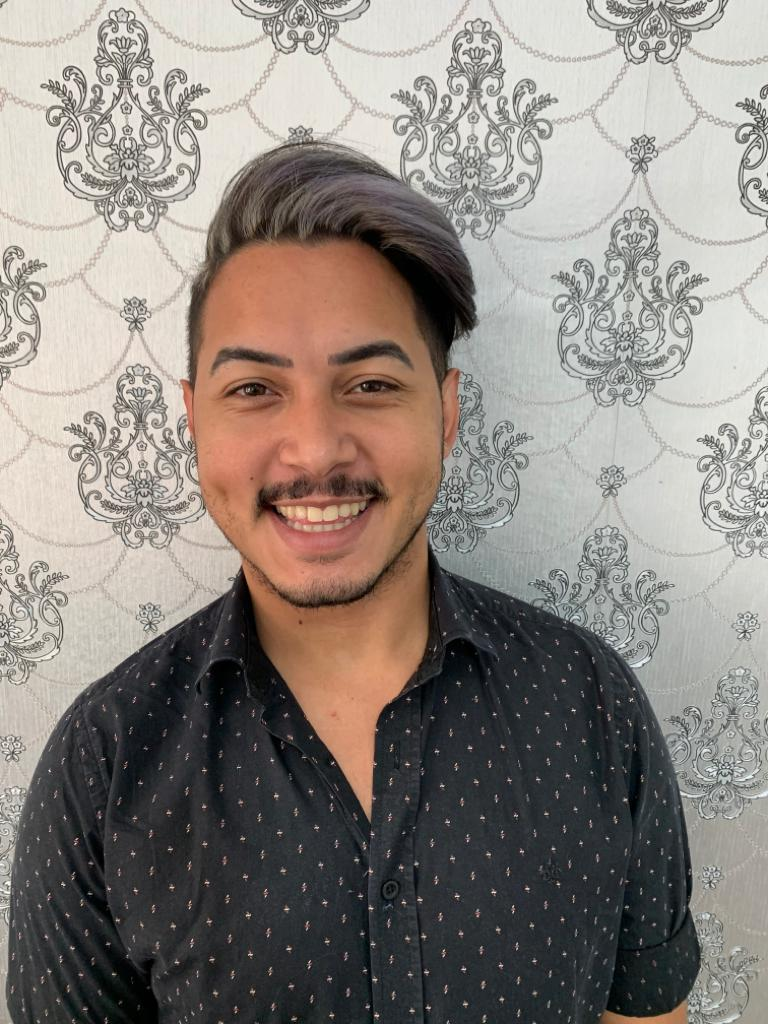
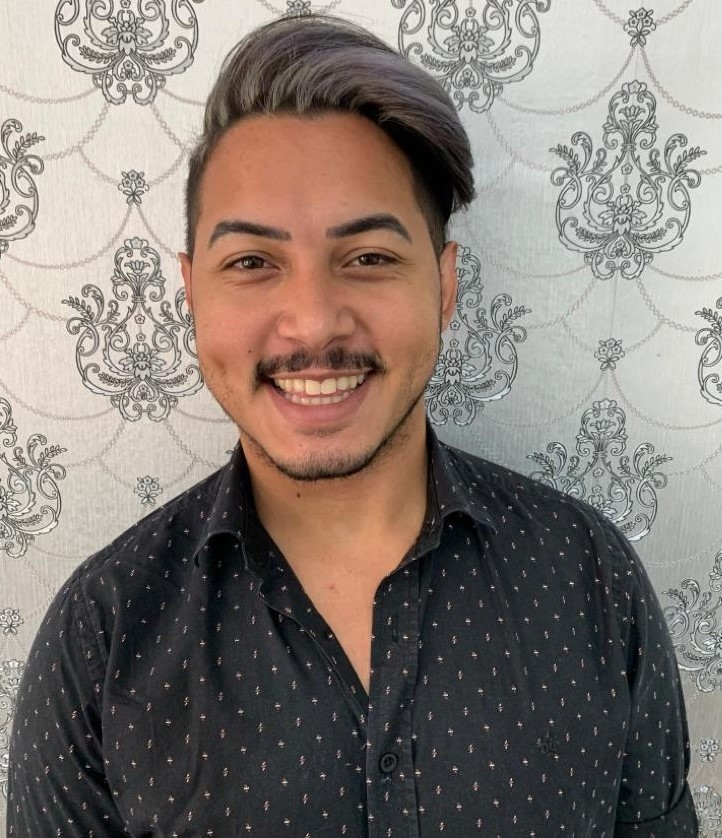
finalizacao cards

diff --git a/src/Sobre/Cards_Sobre/index.js b/src/Sobre/Cards_Sobre/index.js
@@ -1,6 +1,7 @@
 import React from 'react';
 import 'bootstrap/dist/css/bootstrap.min.css';
-import { MDBRow, MDBCol, MDBCard, MDBCardBody } from "mdbreact";
+import Container from 'react-bootstrap/Container'
+// import { MDBRow, MDBCol, MDBCard, MDBCardBody } from "mdbreact";
 import Image from 'react-bootstrap/Image'
 import Diovani from '../../assests/img/Equipe/Diovani.jpg'
 import Rogerio from '../../assests/img/Equipe/Junior.jpg'
@@ -13,56 +14,105 @@ import './index.css';
 
 const TeamPage = () => {
   return (
-    
-    <MDBCard className="caixa">
-        {/* <MDBCardBody> */}
-          <h2 className="h1-responsive font-weight-bold my-5">
-          Nossa incrível equipe
-          </h2>
-          <MDBRow>
-            <MDBCol md="4" className="mb-md-0 mb-5">
 
-              <Image tag="img" className="rounded z-depth-1-half img-fluid imagens" src={Diovani} alt="Diovani" />
-              <h4 className="font-weight-bold dark-grey-text my-4">
-                Diovani
-              </h4>
-              <h6 className="text-uppercase grey-text mb-3">Proprietário | Cabeleireiro | Maquiador </h6>
-            </MDBCol>
+    <Container className="caixa">
+      <main className="title">
+        <h2 className="text">
+          Nossa Incrível Equipe
+          </h2></main>
 
-            <MDBCol md="4" className="mb-md-0 mb-5">
-            <Image tag="img" className="rounded z-depth-1-half img-fluid imagens" src={Rogerio} alt="Rogerio" />
-              <h4 className="font-weight-bold dark-grey-text my-4">Rogerio</h4>
-              <h6 className="text-uppercase grey-text mb-3">
-              Proprietário | Gerente | Cabeleireiro
-              </h6>
-            </MDBCol>
+      <header>
+        <section className='box-cards'>
+        <div className='box1'>
 
-            <MDBCol md="4" className="mb-md-0 mb-5">
-            <Image tag="img" className="rounded z-depth-1-half img-fluid imagens" src={Karina} alt="Karina" />
-              <h4 className="font-weight-bold dark-grey-text my-4">
-                Karina
-              </h4>
-              <h6 className="text-uppercase grey-text mb-3">Esteticista | Manicure</h6>
-            </MDBCol>
-            
-            <MDBCol md="4" className="mb-md-0 mb-5">
-            <Image tag="img" className="rounded z-depth-1-half img-fluid imagens" src={Jessica} alt="Jessica" />
-              <h4 className="font-weight-bold dark-grey-text my-4">
-                Jessica
-              </h4>
-              <h6 className="text-uppercase grey-text mb-3">Manicure | Depiladora</h6>
-            </MDBCol>
-            <MDBCol md="4" className="mb-md-0 mb-5">
-            <Image tag="img" className="rounded z-depth-1-half img-fluid imagens" src={Douglas} alt="Douglas" />
-              <h4 className="font-weight-bold dark-grey-text my-4">
-                Douglas
-              </h4>
-              <h6 className="text-uppercase grey-text mb-3">Cabeleireiro</h6>
-            </MDBCol>
-          </MDBRow>
-        {/* </MDBCardBody> */}
-      </MDBCard>
+          <div className="box">
+            <Image tag="img" className="imagens" src={Diovani} alt="Diovani" />
+            <h4> Diovani </h4>
+            <h6>Proprietário | Cabeleireiro | Maquiador </h6>
+          </div>
+
+          <div className="box">
+            <Image tag="img" className="imagens" src={Rogerio} alt="Rogerio" />
+            <h4>Rogerio</h4>
+            <h6> Proprietário | Gerente | Cabeleireiro </h6>
+          </div>
+        </div>
+
+        <div className='box1'>
+
+          <div className="box">
+            <Image tag="img" className="imagens" src={Karina} alt="Karina" />
+            <h4> Karina </h4>
+            <h6>Esteticista | Manicure</h6>
+          </div>
+
+          <div className="box">
+            <Image tag="img" className="imagens" src={Jessica} alt="Jessica" />
+            <h4> Jessica </h4>
+            <h6>Manicure | Depiladora</h6>
+          </div>
+
+          <div className="box">
+            <Image tag="img" className="imagens" src={Douglas} alt="Douglas" />
+            <h4> Douglas </h4>
+            <h6>Cabeleireiro</h6>
+          </div>
+
+        </div>
+
+        </section>
+      </header>
+    </Container>
   );
 }
 
 export default TeamPage;
+
+{/* <MDBCard className="caixa">
+
+  <h2 className="h1-responsive font-weight-bold my-5">
+  Nossa incrível equipe
+  </h2>
+  <MDBRow>
+    <MDBCol md="4" className="mb-md-0 mb-5">
+
+      <Image tag="img" className="rounded z-depth-1-half img-fluid imagens" src={Diovani} alt="Diovani" />
+      <h4 className="font-weight-bold dark-grey-text my-4">
+        Diovani
+      </h4>
+      <h6 className="text-uppercase grey-text mb-3">Proprietário | Cabeleireiro | Maquiador </h6>
+    </MDBCol>
+
+    <MDBCol md="4" className="mb-md-0 mb-5">
+    <Image tag="img" className="rounded z-depth-1-half img-fluid imagens" src={Rogerio} alt="Rogerio" />
+      <h4 className="font-weight-bold dark-grey-text my-4">Rogerio</h4>
+      <h6 className="text-uppercase grey-text mb-3">
+      Proprietário | Gerente | Cabeleireiro
+      </h6>
+    </MDBCol>
+
+    <MDBCol md="4" className="mb-md-0 mb-5">
+    <Image tag="img" className="rounded z-depth-1-half img-fluid imagens" src={Karina} alt="Karina" />
+      <h4 className="font-weight-bold dark-grey-text my-4">
+        Karina
+      </h4>
+      <h6 className="text-uppercase grey-text mb-3">Esteticista | Manicure</h6>
+    </MDBCol>
+    
+    <MDBCol md="4" className="mb-md-0 mb-5">
+    <Image tag="img" className="rounded z-depth-1-half img-fluid imagens" src={Jessica} alt="Jessica" />
+      <h4 className="font-weight-bold dark-grey-text my-4">
+        Jessica
+      </h4>
+      <h6 className="text-uppercase grey-text mb-3">Manicure | Depiladora</h6>
+    </MDBCol>
+    <MDBCol md="4" className="mb-md-0 mb-5">
+    <Image tag="img" className="rounded z-depth-1-half img-fluid imagens" src={Douglas} alt="Douglas" />
+      <h4 className="font-weight-bold dark-grey-text my-4">
+        Douglas
+      </h4>
+      <h6 className="text-uppercase grey-text mb-3">Cabeleireiro</h6>
+    </MDBCol>
+  </MDBRow>
+
+</MDBCard> */}

diff --git a/src/Sobre/Cards_Sobre/index.css b/src/Sobre/Cards_Sobre/index.css
@@ -1,50 +1,58 @@
-.box {
-    margin: 10px 15px;
-}
-
-.caixa{
+/* .title {
     text-align: center;
-    border: none;
-}
-
-.box-caixa{
-    max-width: 30%;
-    max-height: 50%;
-    margin: 0 auto;
-}
-.box-cards {
-   display: flex;
-    justify-content: center;
-    margin: 10px 0px;
-}
-
-.cards-group{
-    display: flex;
-    justify-content: center;
-    width: 97vw;
-}
+    margin: 10px 0;
+} */
 
 .text {
     text-align: center;
+    margin: 50px 0;
 }
-.btn {
+
+.caixa {
+    
+    flex-direction: column;
+}
+
+.box1{
+    display: flex;
+    justify-content: center;
+}
+
+.box{
+    width: 35%;
+    height: 30%;
+}
+/* .box-cards {
+   display: flex;
+    justify-content: center;
+    margin: 10px 0px;
+} */
+
+/* .cards-group{
+    display: flex;
+    justify-content: center;
+    width: 97vw;
+} */
+
+
+/* .btn {
     color: gray !important;
     background-color: whitesmoke;
     font-size: 16px;
     border: none;
     outline: none !important;
     box-shadow: none !important;
-} 
+}  */
 
 .imagens{
-    width: 100%;
-    height: 58%;
+    width: 80%;
+    height: 50%;
     object-fit: cover;
     object-position: center;
 }
 
 @media (max-width: 767px){
-    .cards-group{
+    .box1{
         flex-wrap: wrap;
     }
     .box-cards container {

diff --git a/src/Contato/Localizacao/index.js b/src/Contato/Localizacao/index.js
@@ -1,0 +1,28 @@
+// import React, { Component } from 'react';
+// import 'bootstrap/dist/css/bootstrap.min.css';
+// import {Map, InfoWindow, Marker, GoogleApiWrapper} from 'google-maps-react';
+
+
+
+// class Localizacao extends Component {
+//     render() {
+//       return (
+//         <Map google={this.props.google} zoom={14}>
+   
+//           <Marker onClick={this.onMarkerClick}
+//                   name={'Current location'} />
+   
+//           <InfoWindow onClose={this.onInfoWindowClose}>
+//               <div>
+//                 <h1>{this.state.selectedPlace.name}</h1>
+//               </div>
+//           </InfoWindow>
+//         </Map>
+//       );
+//     }
+// }
+   
+//   export default GoogleApiWrapper({
+//     apiKey: ("YOUR_GOOGLE_API_KEY_GOES_HERE")
+//   })(Localizacao)
+

diff --git a/src/Home/Navegacao/index.js b/src/Home/Navegacao/index.js
@@ -20,7 +20,7 @@ class Navegacao extends Component {
                             <Nav.Link href="/">Home</Nav.Link>
                             <Nav.Link href="servicos">Serviços</Nav.Link>
                             <Nav.Link href="sobre-equipe">Sobre-Equipe</Nav.Link>
-                            <Nav.Link href="agendamento">Agendamento-Contato</Nav.Link>
+                            <Nav.Link href="contato">Contato</Nav.Link>
                         </Nav>
                     </Navbar.Collapse>
                 </Navbar>

diff --git a/src/Contato/index.js b/src/Contato/index.js
@@ -1,7 +1,8 @@
 import React from 'react';
 import 'bootstrap/dist/css/bootstrap.min.css';
 import Navegacao from '../Home/Navegacao';
-import Agendamento from './Agendamento'
+import Agendamento from './Agendamento';
+// import Localizacao from './Localizacao';
 import Rodape from '../Home/Rodape'
 
 function Contato() {
@@ -9,6 +10,7 @@ function Contato() {
     <div>
       <Navegacao/>
       <Agendamento/>
+      {/* <Localizacao/> */}
       <Rodape/>
     </div>
   );

diff --git a/src/Home/Rodape/index.js b/src/Home/Rodape/index.js
@@ -16,7 +16,7 @@ const Rodape = () => {
     
       <div className="icones2">
           &copy; {new Date().getFullYear()} Copyright: {" "}
-          <a className='dev' href="https://adrianafernandes.github.io/"> Adriana Fernandes</a>
+          <a className='dev' href="https://adrianafernandes.github.io/" target="#"> Adriana Fernandes</a>
       </div>
     </MDBFooter>
   );

diff --git a/src/App.js b/src/App.js
@@ -14,7 +14,7 @@ function App() {
         <Route exact path='/' component={Home} />
         <Route path='/servicos' component={Servicos} />
         <Route path='/sobre-equipe' component={Sobre} />
-        <Route path='/agendamento' component={Contato} />
+        <Route path='/contato' component={Contato} />
       </Switch>
     </Router>
   )

diff --git a/src/Contato/Agendamento/index.js b/src/Contato/Agendamento/index.js
@@ -3,6 +3,7 @@ import 'bootstrap/dist/css/bootstrap.min.css';
 import Container from 'react-bootstrap/Container'
 
 
+
 function Agendamento() {
     return (
         <Container>
@@ -20,3 +21,4 @@ function Agendamento() {
 }
 
 export default Agendamento;
+

diff --git a/src/Servicos/Cards/index.css b/src/Servicos/Cards/index.css
@@ -33,7 +33,7 @@
 
 .imagens{
     width: 100%;
-    height: 72%;
+    max-height: 72%;
     object-fit: cover;
     object-position: center;
 }
